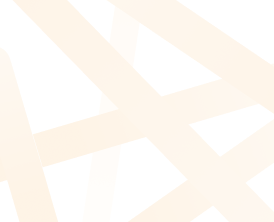
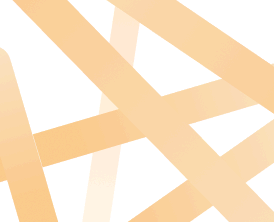
edit number and pattern

diff --git a/src/pages/Home/sections/PromoBenefits/index.jsx b/src/pages/Home/sections/PromoBenefits/index.jsx
@@ -21,7 +21,7 @@ const stepNums = ["۰۱", "۰۲", "۰۳", "۰۴"];
 
 /* ---- Pattern images ---- */
 const patterns = [
-  "/assets/Pattern/yellow.png",
+  "../../../../../public/assets/Pattern/yellow.png",
   "/assets/Pattern/green.png",
   "/assets/Pattern/blue.png",
   "/assets/Pattern/pink.png",
@@ -85,7 +85,16 @@ export default function PromoBenefits() {
                 <article className="promo-v5-card">
                   {/* Colored Header */}
                   <div className="promo-v5-header">
-                    <img src={patterns[i]} alt="" aria-hidden="true" className="promo-v5-pattern" />
+                    <img
+                      src={patterns[i]}
+                      alt=""
+                      aria-hidden="true"
+                      className="promo-v5-pattern"
+                      style={{
+                        opacity: 0.45,
+                        mixBlendMode: "multiply",
+                      }}
+                    />
                     <div className="promo-v5-icon-h">{cardIcons[i]}</div>
                     <span className="promo-v5-num-h">{stepNums[i]}</span>
                   </div>
